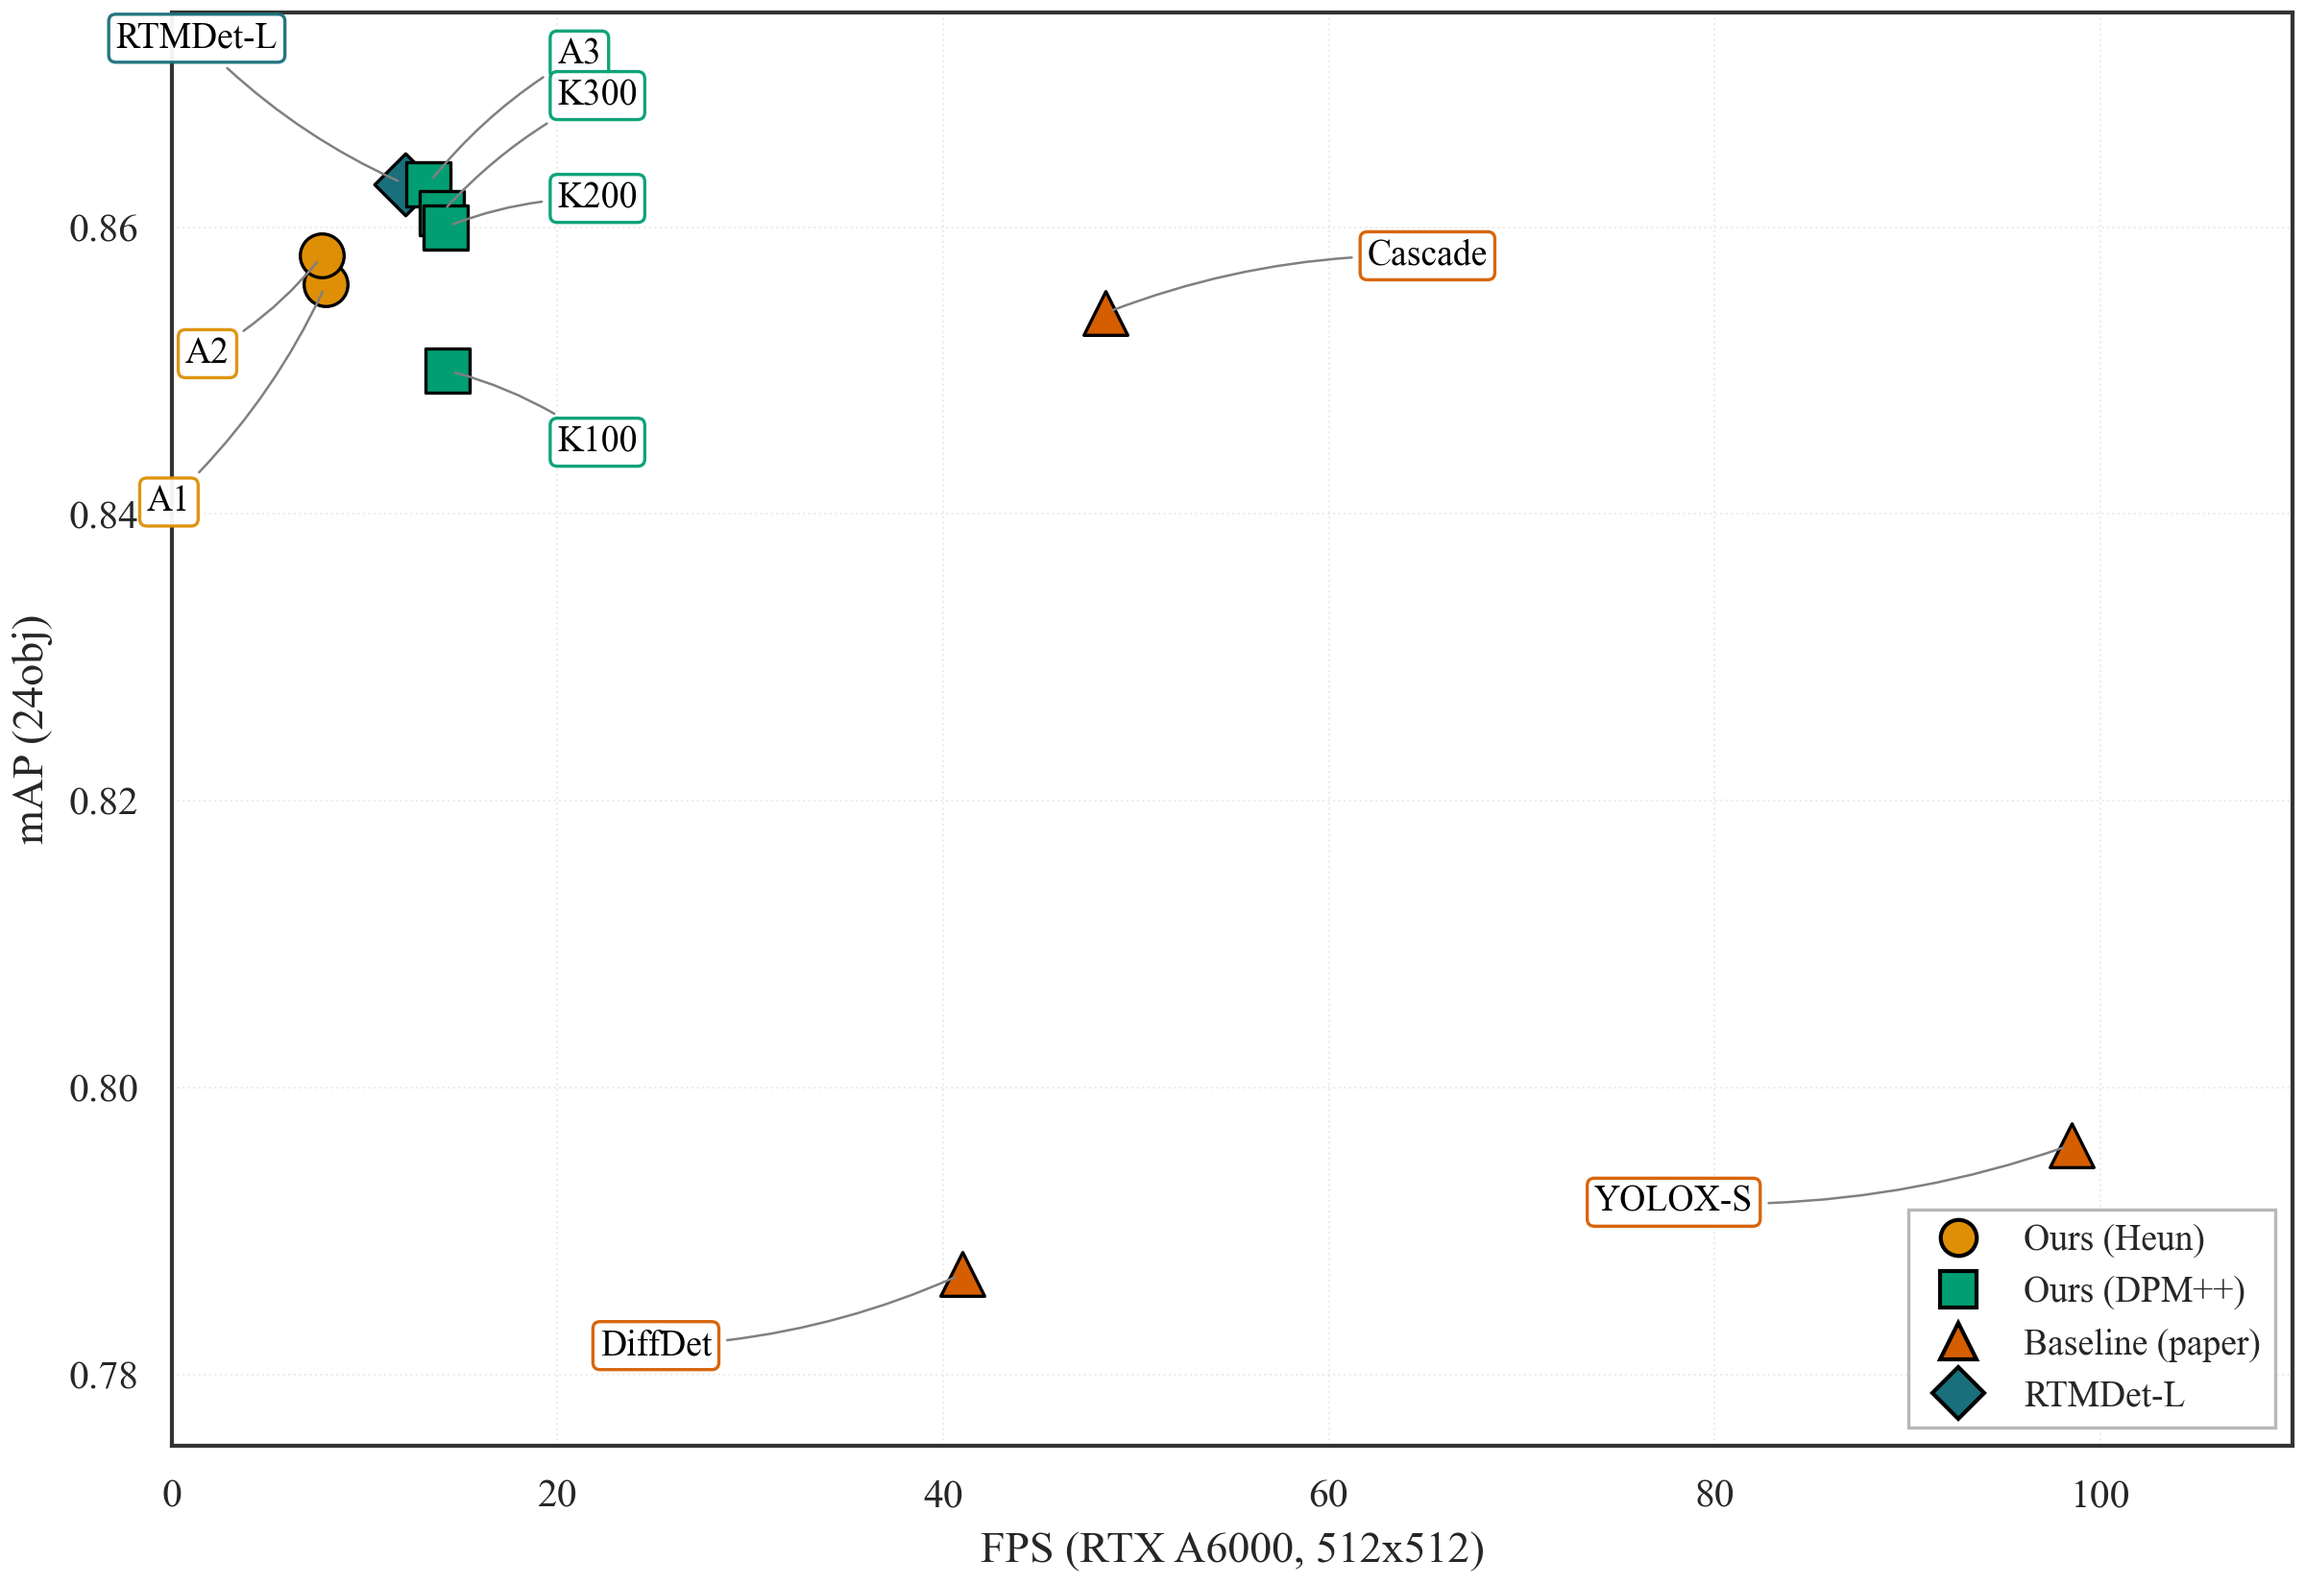
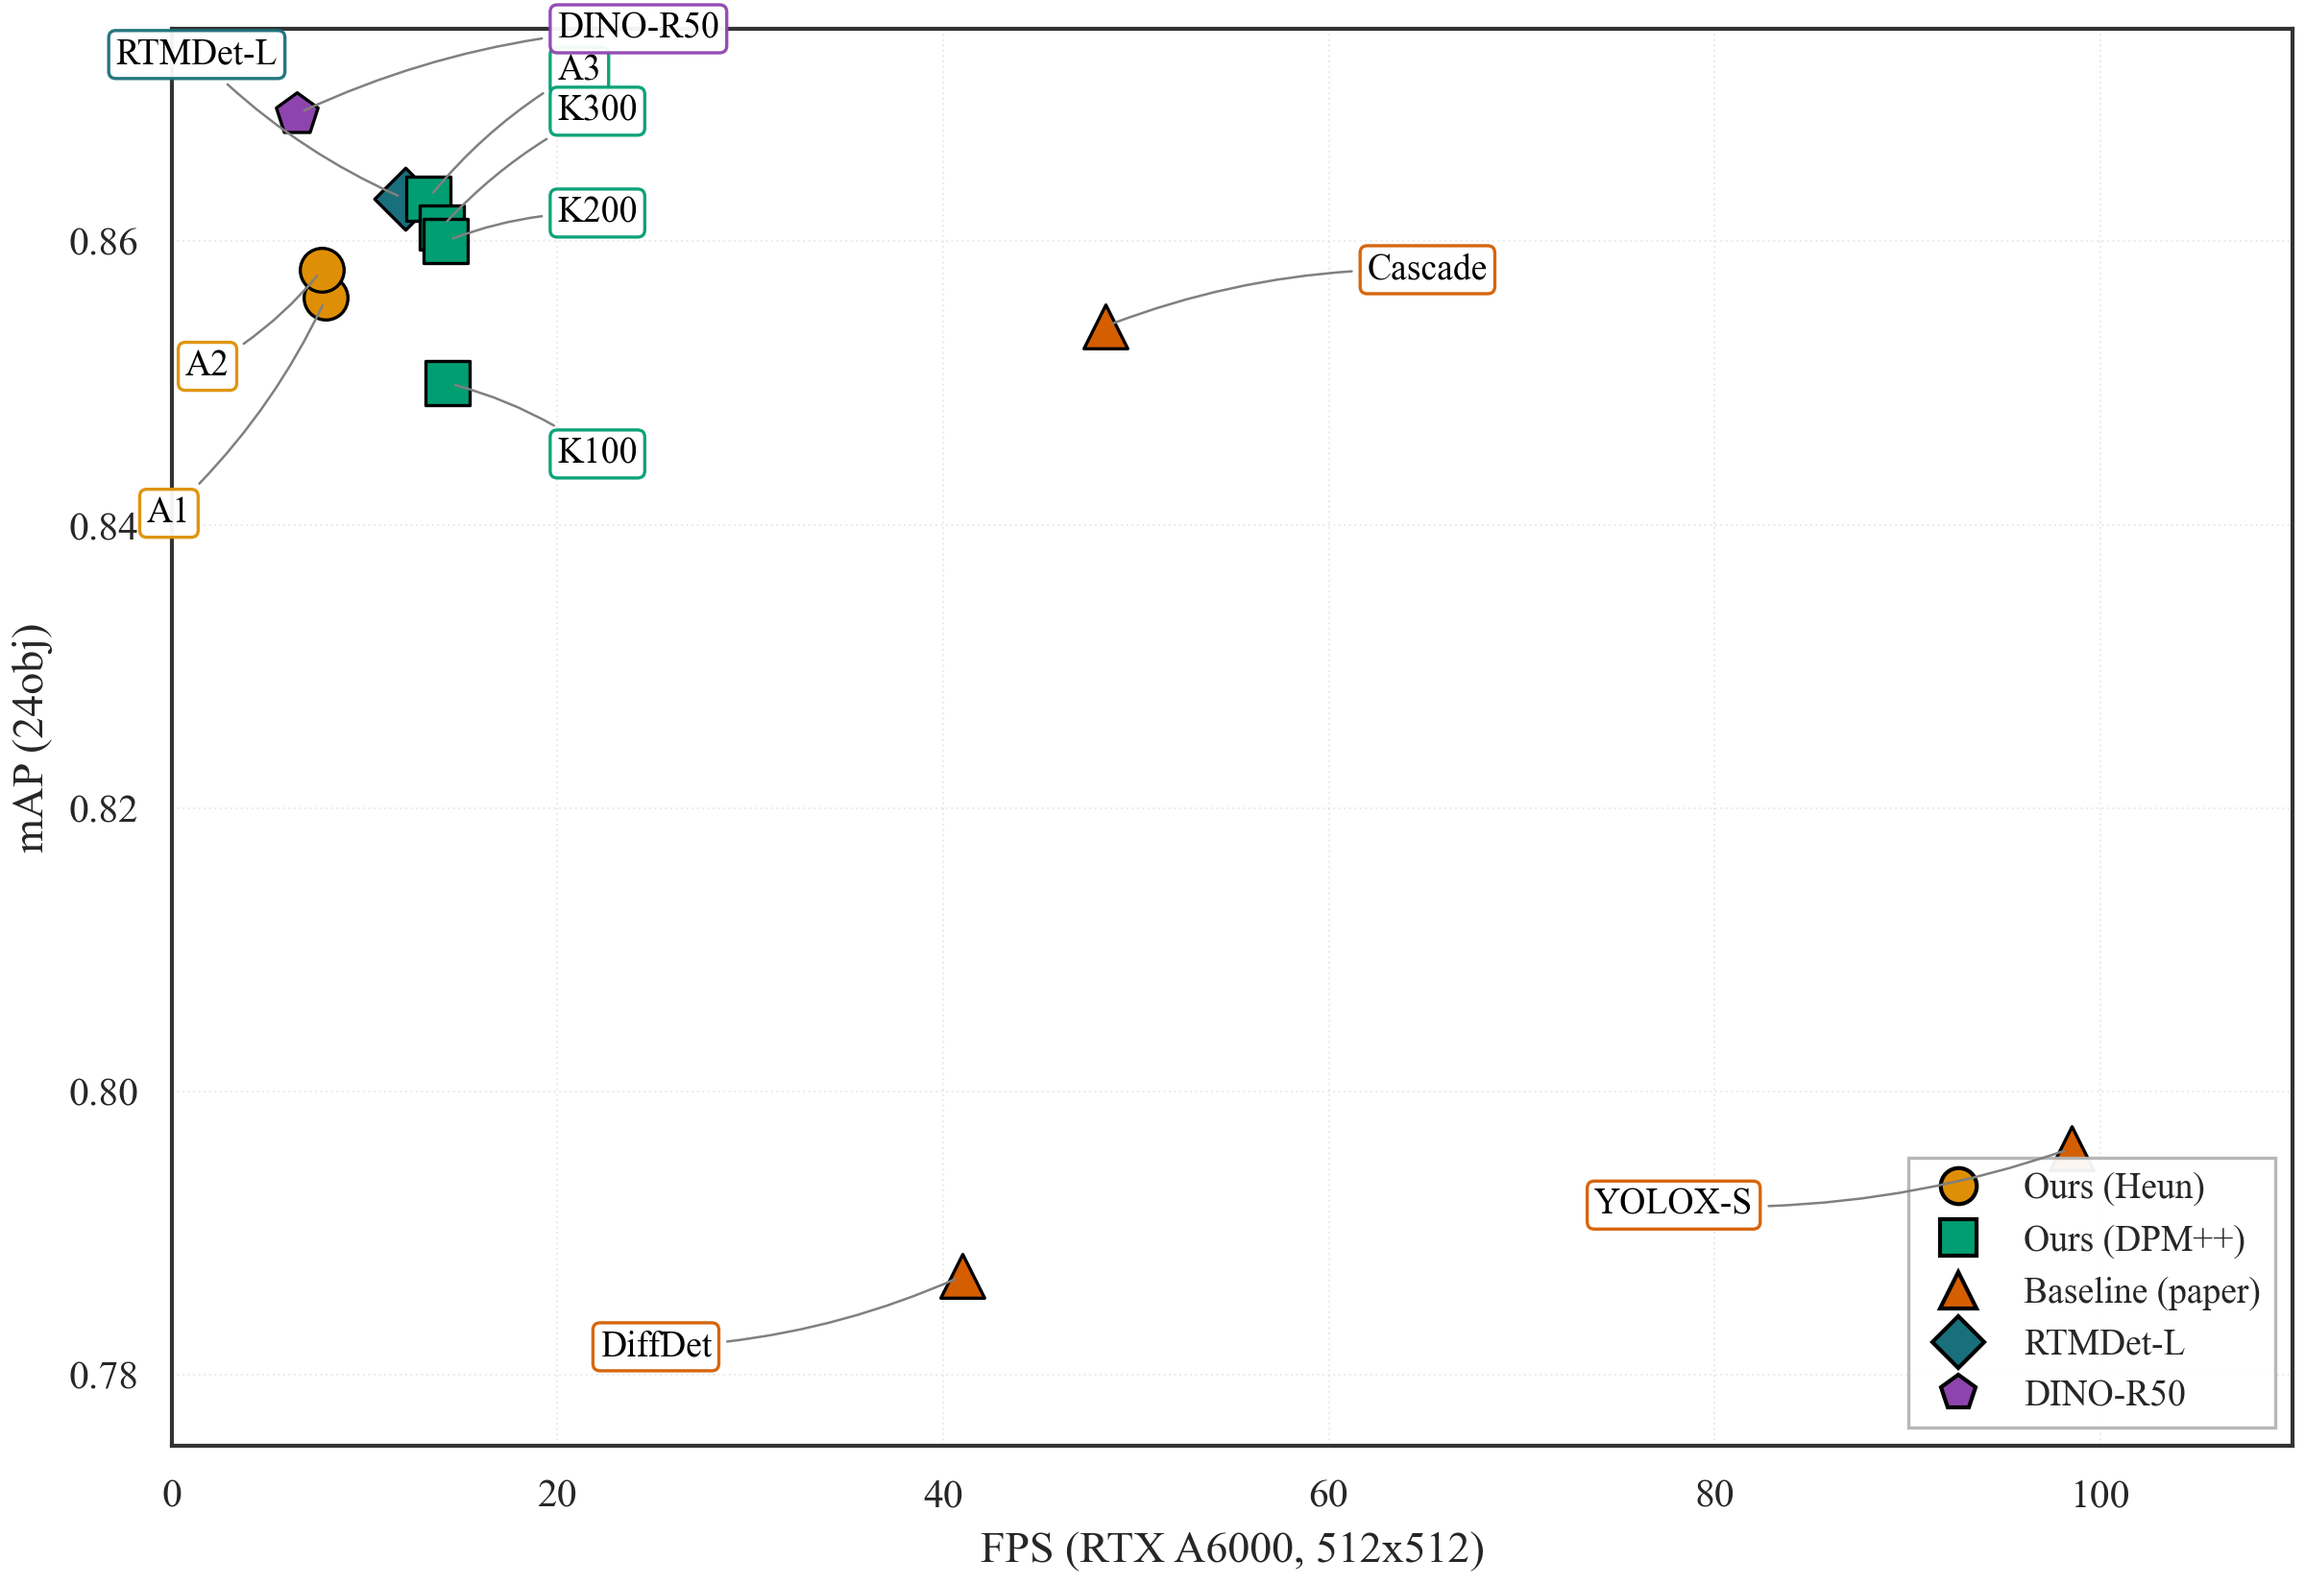
feat(figures): add DINO-R50 to fps_map
Changes:
- Add DINO-R50 model point (6.5 FPS, 0.869 mAP)
- Add purple pentagon marker for DINO-R50
- Add label annotation and legend entry
- mAP value from DINO_R50_seed42_preds.json evaluation
- FPS estimated relative to RTMDet-L performance

diff --git a/docs/paper/latex/figures/fps_map.py b/docs/paper/latex/figures/fps_map.py
@@ -24,6 +24,7 @@ C_OURS_BASE = C_EULER
 C_OURS_FAST = C_DPMPP
 C_BASELINE = C_DDPM
 C_RTM = "#196f7b"
+C_DINO = "#8E44AD"
 
 DATA = [
     ("A1 Heun",       8.0,   0.856, "base"),
@@ -33,9 +34,10 @@ DATA = [
     ("A3 +IO3 K200",  14.2,   0.860, "fast"),
     ("A3 +IO3 K100",  14.3,   0.850, "fast"),
     ("Cascade R-CNN", 48.4,  0.854, "baseline"),
-    ("YOLOX-S",       98.5,   0.796, "baseline"),
-    ("DiffusionDet",  41.0,   0.787, "baseline"),
-    ("RTMDet-L",      12.1,   0.863, "rtmdet"),
+    ("YOLOX-S",       98.5,  0.796, "baseline"),
+    ("DiffusionDet",  41.0,  0.787, "baseline"),
+    ("RTMDet-L",      12.1,  0.863, "rtmdet"),
+    ("DINO-R50",       6.5,  0.869, "dino"),
 ]
 
 GROUP_STYLE = {
@@ -43,6 +45,7 @@ GROUP_STYLE = {
     "fast": {"color": C_OURS_FAST, "marker": "s", "z": 6},
     "baseline": {"color": C_BASELINE, "marker": "^", "z": 5},
     "rtmdet": {"color": C_RTM, "marker": "D", "z": 5},
+    "dino": {"color": C_DINO, "marker": "p", "z": 5},
 }
 
 
@@ -87,6 +90,10 @@ def create_label_config():
         "RTMDet-L": {
             "display": "RTMDet-L", "xy": (12.1, 0.863), "xytext": (5.5, 0.872),
             "ha": "right", "va": "bottom", "color": C_RTM
+        },
+        "DINO-R50": {
+            "display": "DINO-R50", "xy": (6.5, 0.869), "xytext": (20.0, 0.875),
+            "ha": "left", "va": "center", "color": C_DINO
         },
     }
 
@@ -137,6 +144,8 @@ def main() -> None:
                markeredgecolor="black", markersize=9, label="Baseline (paper)"),
         Line2D([0], [0], marker="D", color="w", markerfacecolor=C_RTM,
                markeredgecolor="black", markersize=9, label="RTMDet-L"),
+        Line2D([0], [0], marker="p", color="w", markerfacecolor=C_DINO,
+               markeredgecolor="black", markersize=9, label="DINO-R50"),
     ]
     ax.legend(handles=handles, loc="lower right", fontsize=9,
               frameon=True, framealpha=0.95)
